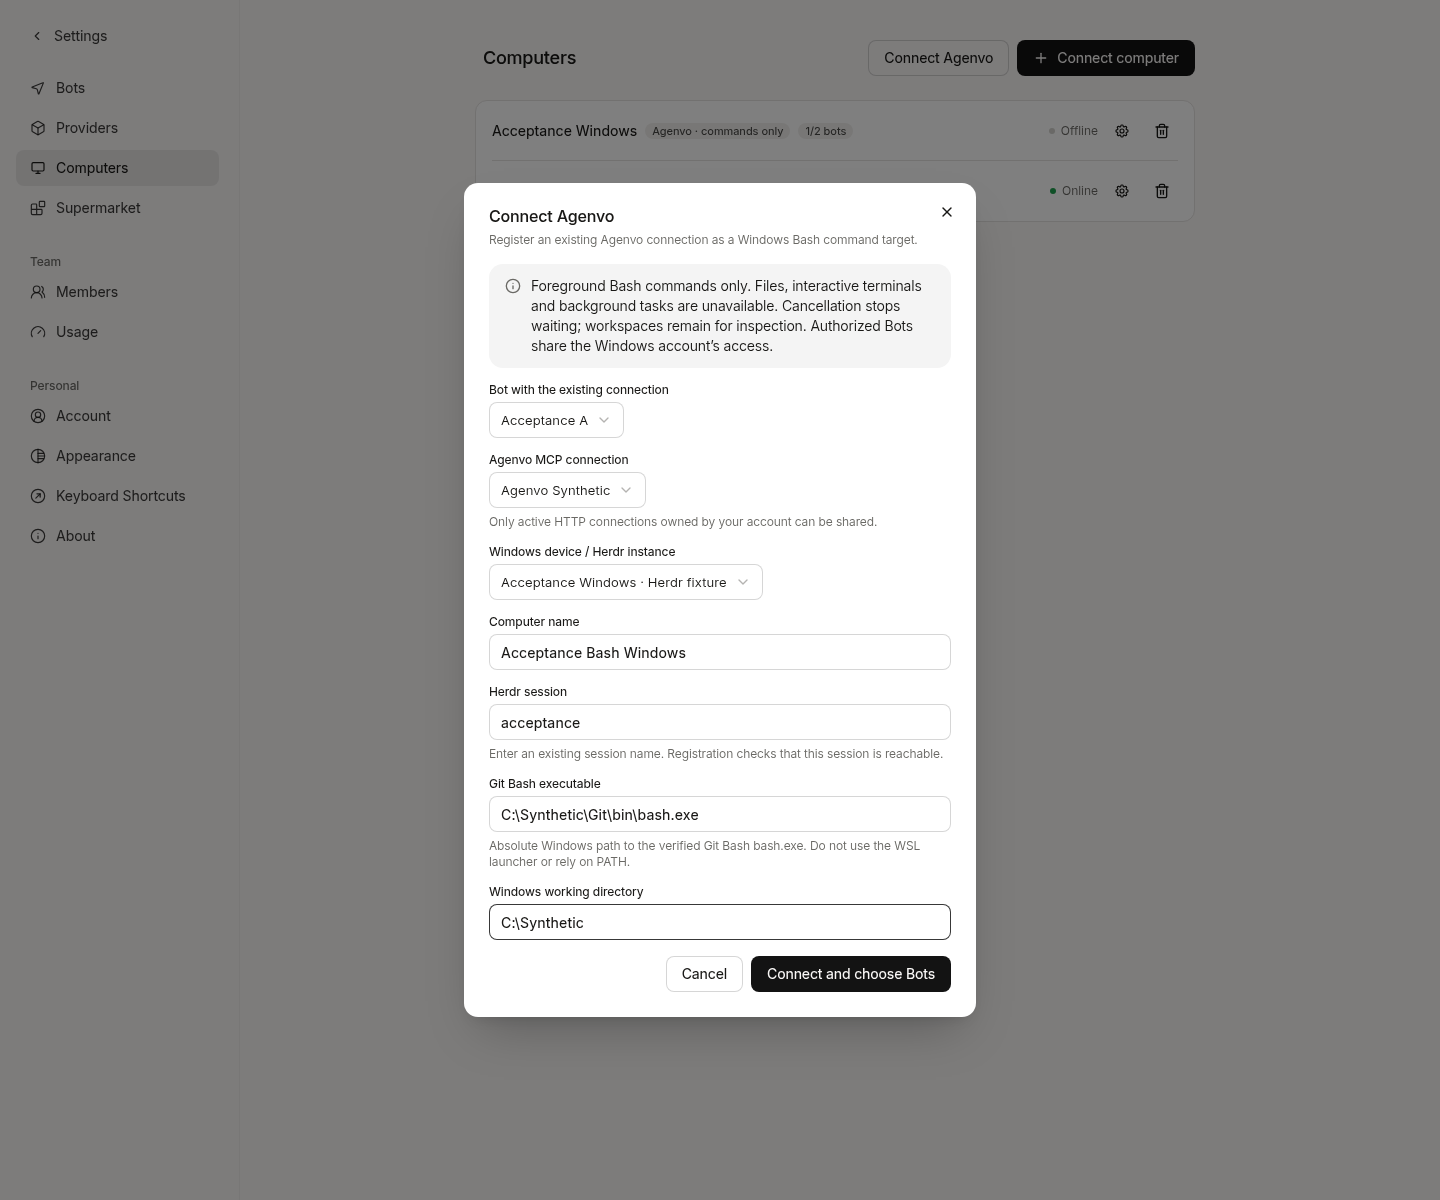
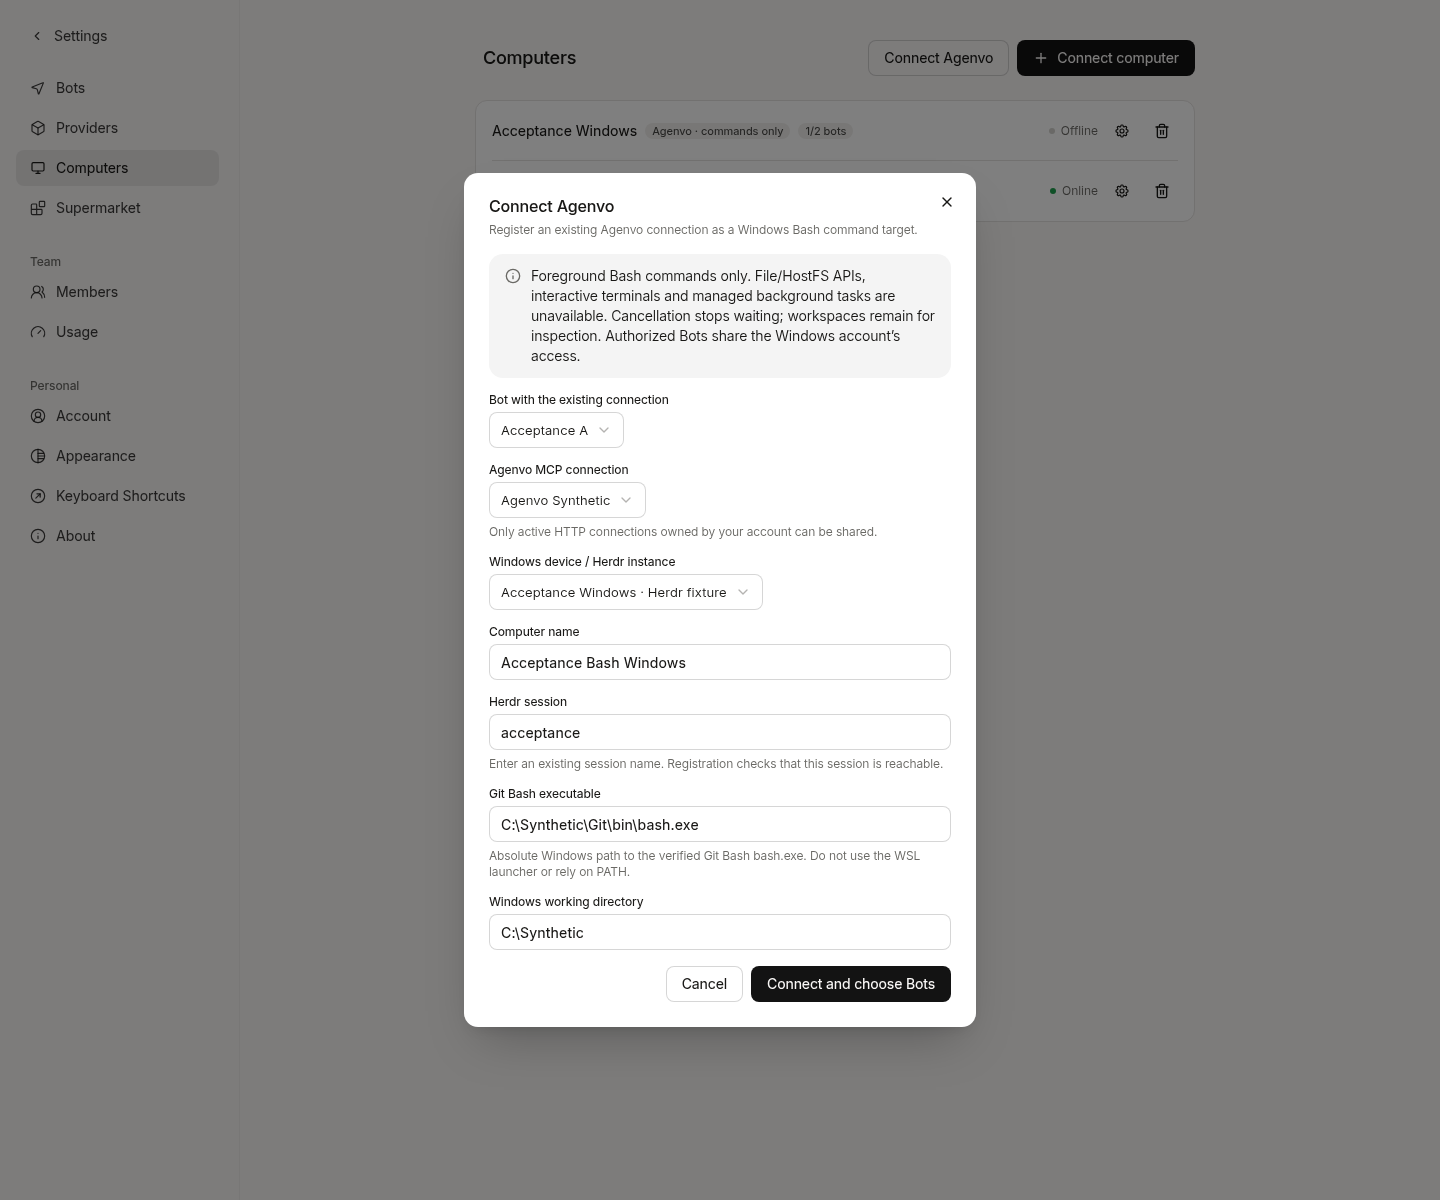
docs: clarify Agenvo command target and deployment boundaries

Changed region(s): [[0.3125, 0.1233, 0.6875, 0.8017], [0.3125, 0.7708, 0.6875, 0.8633]]

diff --git a/docs/design/agenvo-execution-target.md b/docs/design/agenvo-execution-target.md
@@ -6,6 +6,28 @@ account computer registry. It reuses `user_runtimes`, Bot mounts and session
 a new credential owner. Production deployment requires separate Windows
 acceptance of the Bash completion wrapper.
 
+## Release status and terminology
+
+This document describes the unmerged PR #4 candidate on
+`feat/agenvo-execution-target`, not a deployed feature. The reported deployed
+release is main `5900e4c1`, with native workspace storage still active. The
+runtime thread's existing direct Bot MCP connection is separate from this
+candidate's account registration, per-Bot grants and session target adapter.
+
+The existing API paths and database names containing `runtime` or `workspace`
+are shared registry/routing identifiers. For `provider: "agenvo"`, both account
+and Bot target responses advertise only `capabilities: ["exec_foreground"]`.
+They do not advertise native `fs`, `exec` or `hostfs` protocol support. The
+Computers page and session selector label it **Agenvo · commands only**.
+`online` means the authorized Herdr session answered `workspace.list`; it is
+not proof that the configured Bash executable, full filesystem protocol or a
+Herdr AI agent is running. Bash availability is checked at command execution.
+
+Unsupported file APIs do not prohibit a Bash command from reading or writing
+files under the Windows account's permissions. Likewise, rejecting managed
+background-job options is not an OS sandbox that prevents a shell from creating
+child processes. This adapter does not manage a Herdr AI-agent lifecycle.
+
 ## Registration and authorization
 
 1. Configure an Agenvo HTTP MCP connection through the existing MCP settings.
@@ -52,6 +74,10 @@ The wrapper returns bounded UTF-8 text with stderr merged, not byte-preserving
 stdout/stderr streams. Prompts, command echoes and PSReadLine errors cannot count
 as completion. Malformed/ambiguous responses and lost write responses remain
 unknown and are never retried automatically.
+Every result frame starts and ends with explicit CRLF. Terminal residue remains
+on the preceding line; the parser still requires one entire nonce-matched frame
+and rejects duplicates. See the [current validation record](../validation/agenvo/README.md)
+for the original Windows framing failure and the new fixed-nonce batch.
 
 Herdr has no atomic expected-generation close. IDs can repeat after restart;
 labels, terminal IDs, revision and a separate get/list check do not prove safe

diff --git a/docs/validation/agenvo/README.md b/docs/validation/agenvo/README.md
@@ -81,6 +81,16 @@ NAS data, personal endpoints or real Windows tasks were used.
   checkpoint. Reuse the already observed live acceptance pane; do not repeat
   the old unknown command, close the workspace or resume IDs after a restart.
 
+The follow-up contract check kept the same wrapper and fixed vectors. Account
+and Bot target responses advertise only `exec_foreground`; account rows and the
+session selector identify the provider as command-only. Registration copy now
+says file/HostFS **APIs** are unavailable, since Bash commands still have the
+Windows account's ordinary file access. The design document separates this
+unmerged candidate from the deployed main release and retained native storage.
+Current browser captures verify the clarified form and Chinese dark narrow
+scrolling; Bot B still cannot select the ungranted target. Locale duplicate-key
+checks and the UI contract guard passed (three existing guard warnings).
+
 ## Limits and failures
 
 The Agenvo MCP and model endpoints are controlled protocol fixtures, not a real
